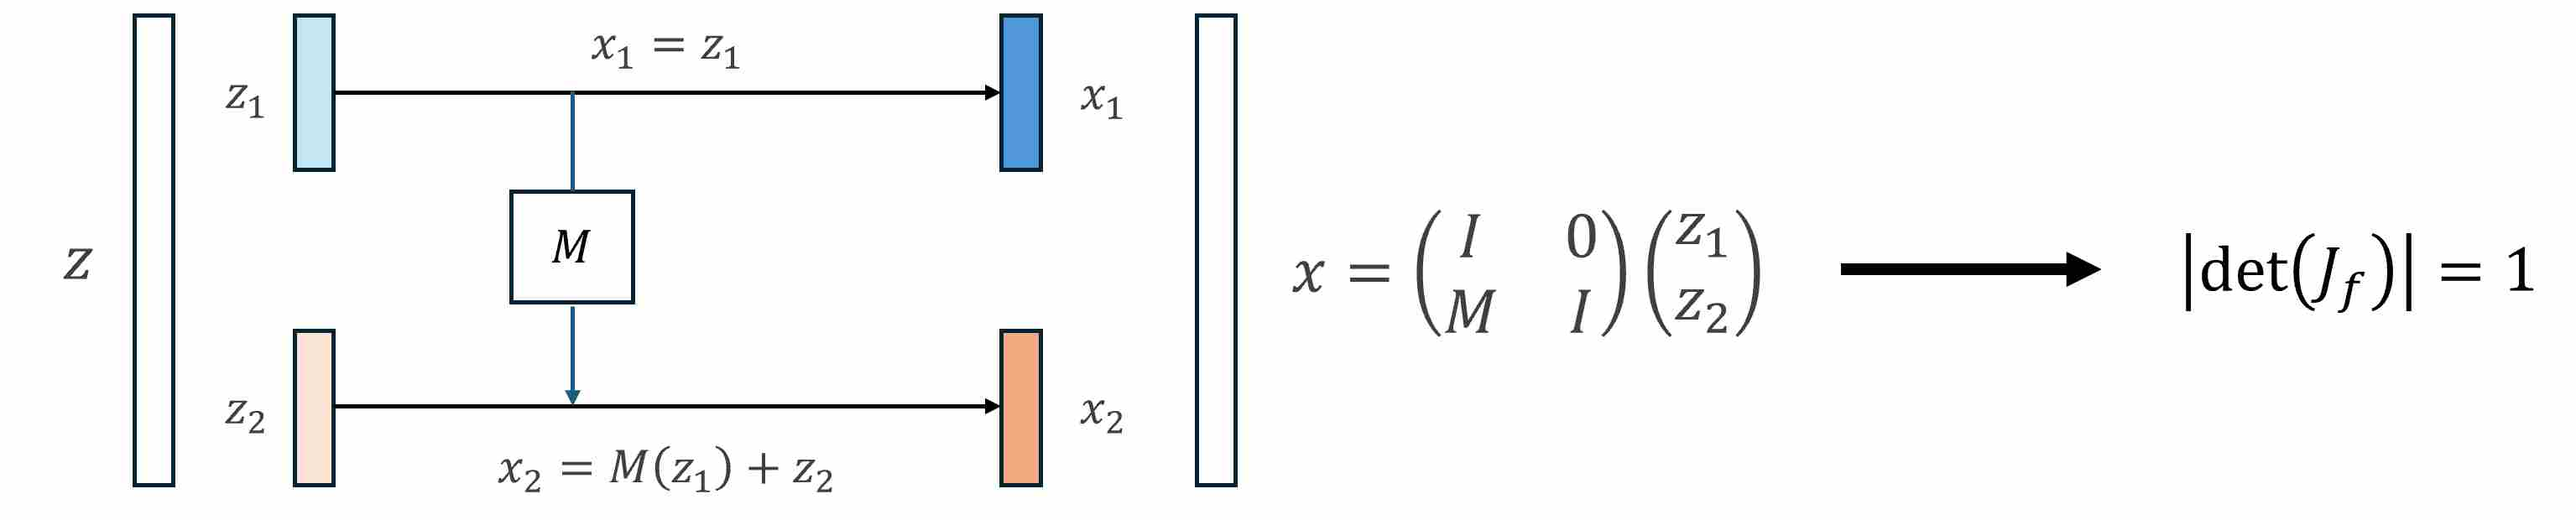
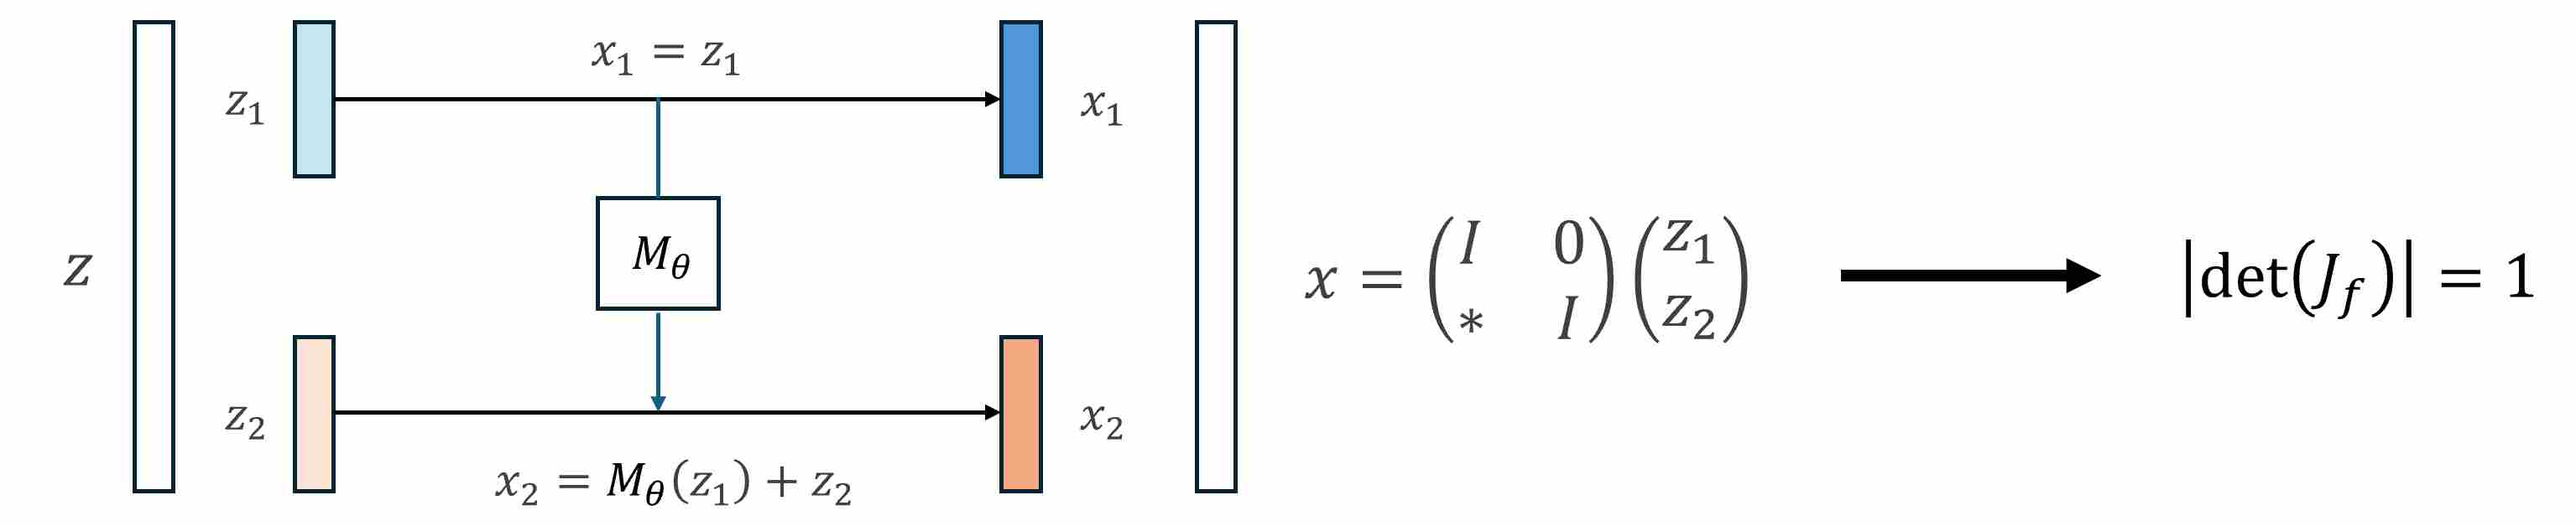
update

diff --git a/_posts/2025-06-08-blog-post.md b/_posts/2025-06-08-blog-post.md
@@ -104,7 +104,11 @@ Where $J_{f_i}$ is Jacobian Matrix. Thus, the entire model is **exact likelihood
 
 To make Jacobian computation feasible, invertible mappings should be designed for special architecture to guarantee a tractable Jacobian determinant. For example, Nice [^Nice] using additive coupling layer to make Jacobian determinant is equal to 1.
 
-![Conditional probability path and Marginal probability path](/images/posts/2025-06-08-blog-post/2.jpg)
+![NICE](/images/posts/2025-06-08-blog-post/2.jpg)
+
+Real NVP [^nvp] extends NICE’s additive coupling to an affine coupling layer, which guarantees that the Jacobian determinant is just the product of elementwise scales (a diagonal matrix). This makes log-likelihood tractable while keeping the model invertible and expressive.
+
+![Real_NVP](/images/posts/2025-06-08-blog-post/3.jpg)
 
 The move from **discrete transformations** to **continuous-time transformations** gave rise to **Continuous Normalizing Flows (CNFs)** [^Neural_ODE] [^Ffjord]. Instead of stacking finitely many mappings, we let the transformation evolve under an ODE:
 
